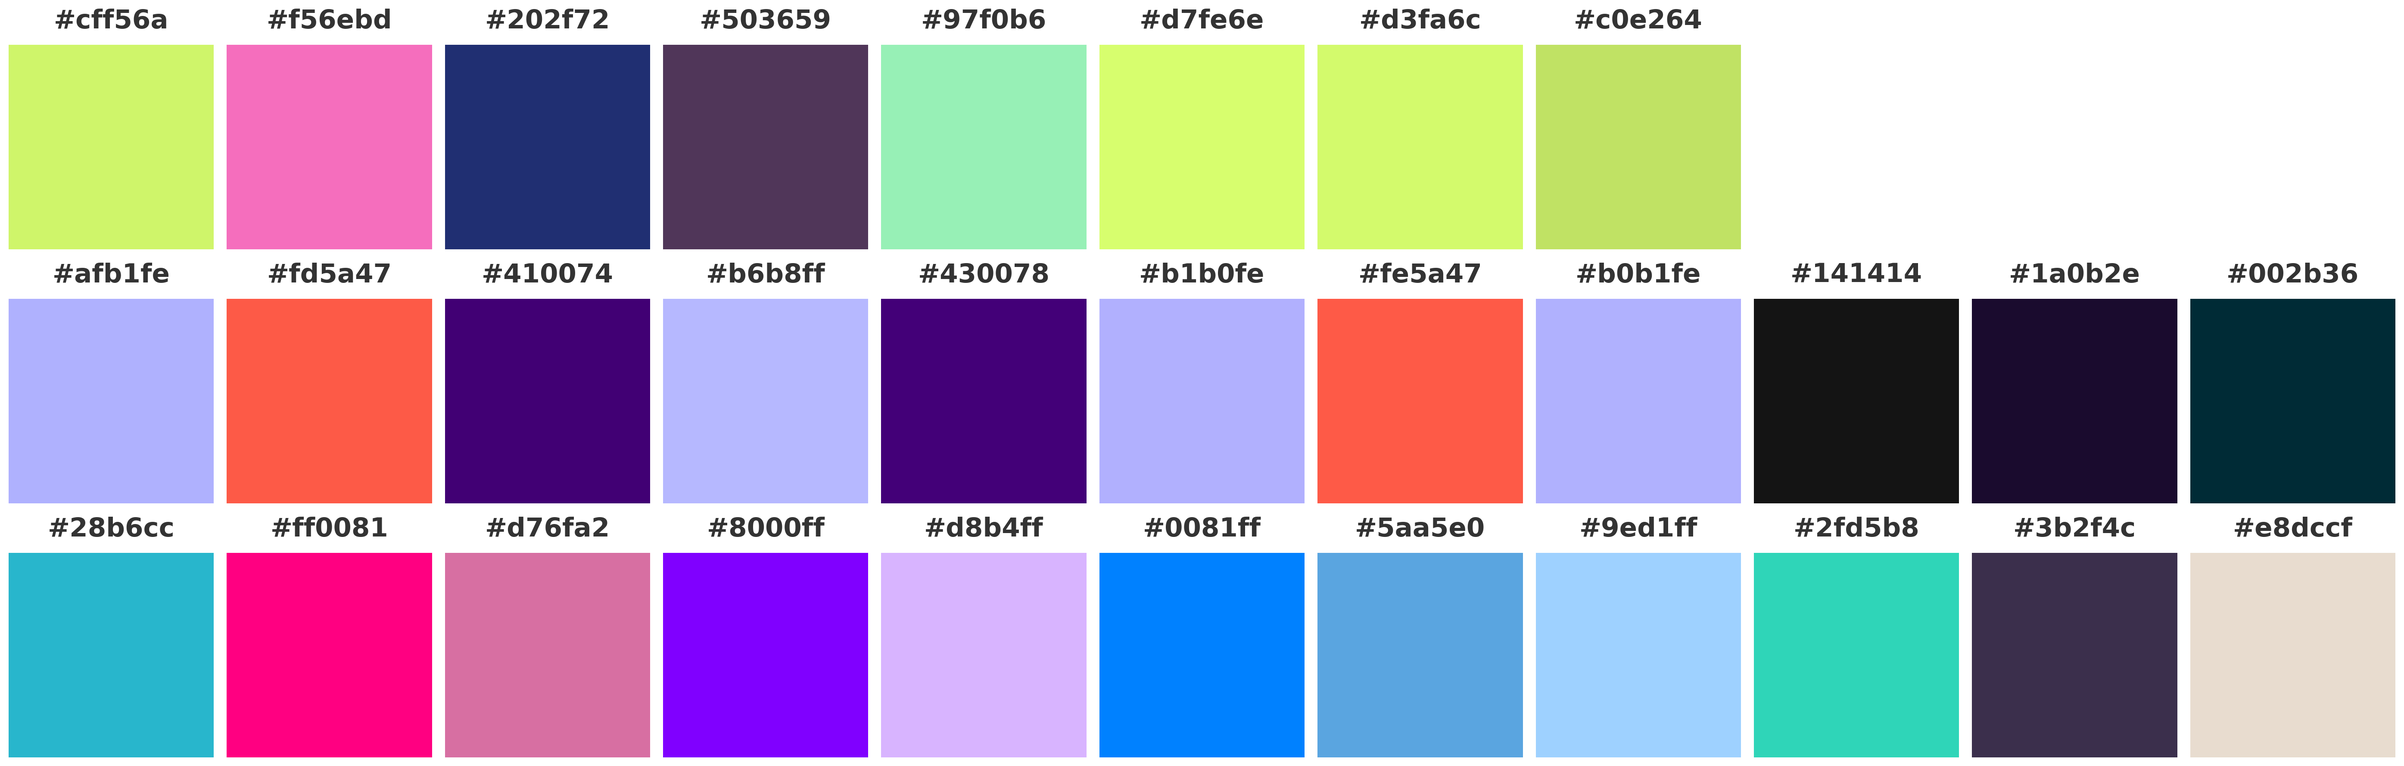
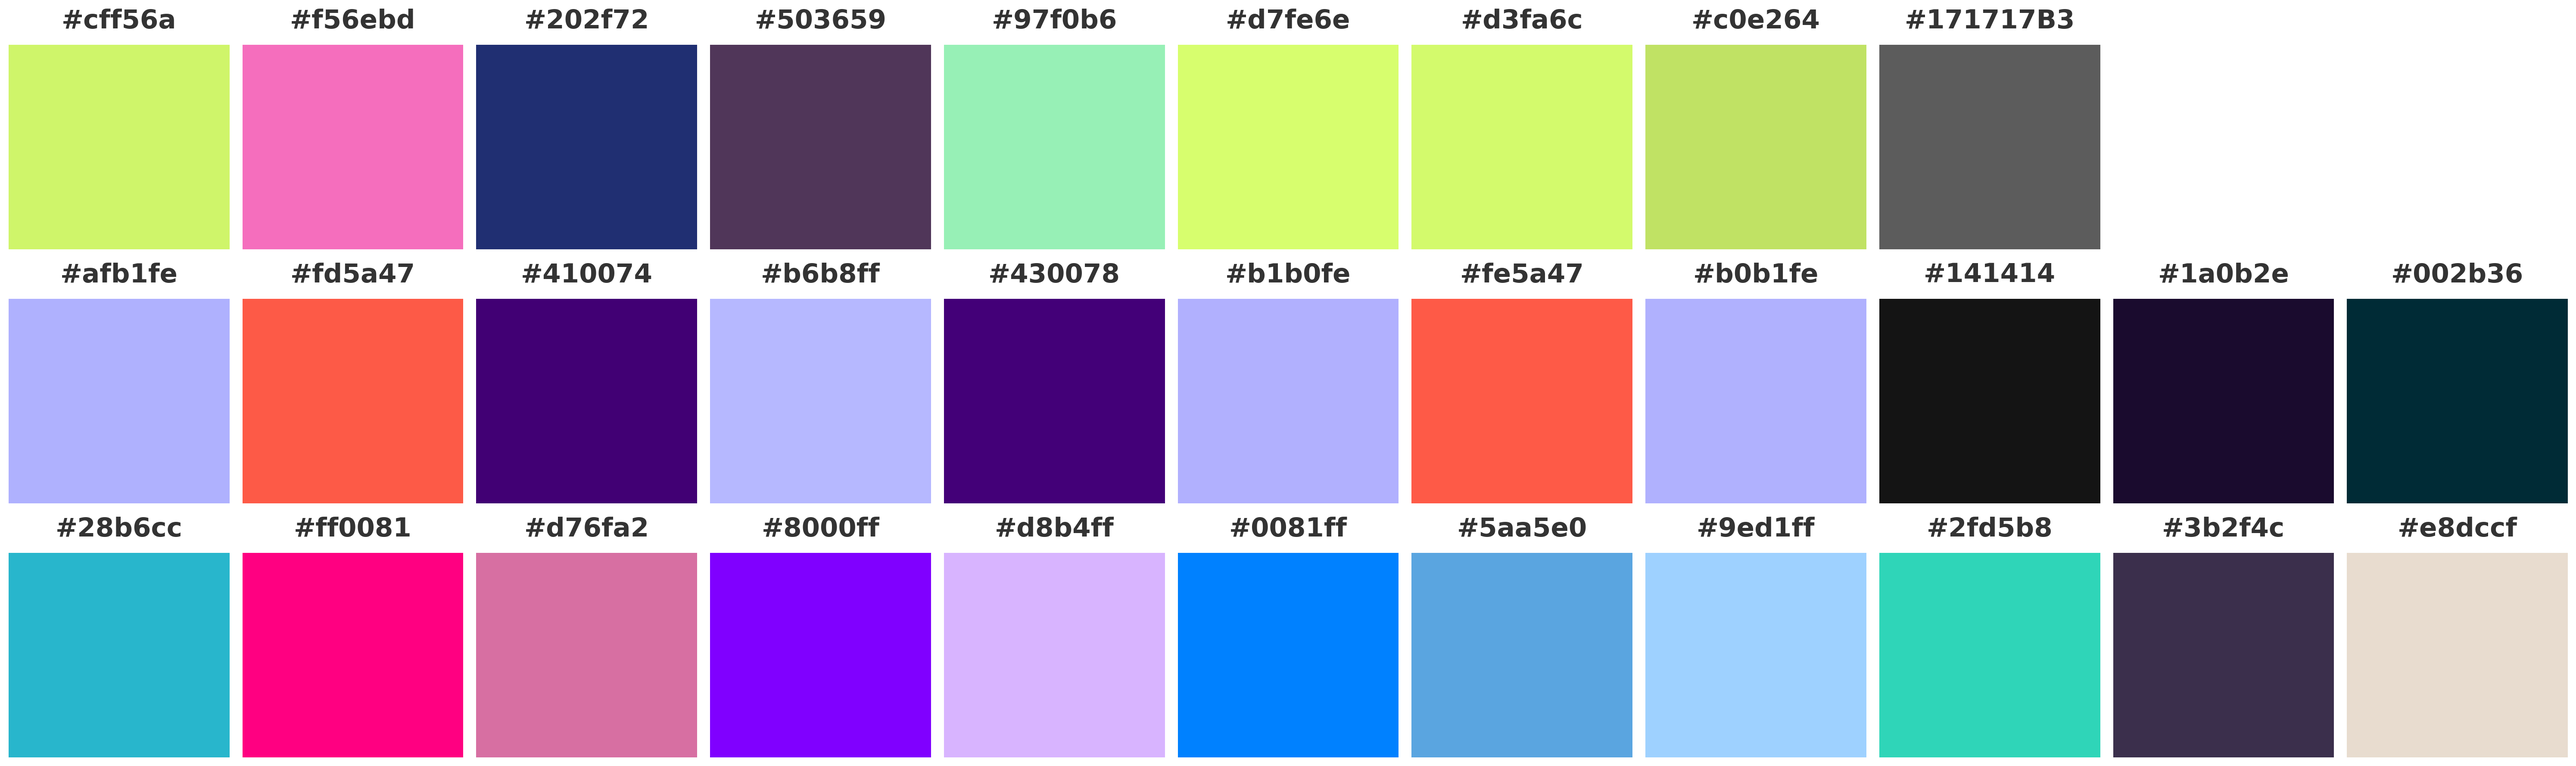
beige as main

diff --git a/basic_vanilla.html b/basic_vanilla.html
@@ -7,13 +7,13 @@
   <style>
     :root { 
       --win: 18rem; 
-      --bg-primary: #FFFAF2;
+      --bg-primary: #171717;
       --bg-secondary: #262626;
       --text-primary: #f5f5f5;
       --text-secondary: #a3a3a3;
-      --accent-from: #f56ebd; /* #c026d3 #fe5a47 */
-      --accent-to: #97f0b6; /* #4f46e5 */
-      --border-color: #b1b0fe; 
+      --accent-from: #c026d3;
+      --accent-to: #4f46e5;
+      --border-color: rgba(255, 255, 255, 0.1);
     }
     
     * {
@@ -42,18 +42,17 @@
       padding: 1rem;
       position: sticky;
       top: 0;
-      background-color: #fffdd0;
+      background-color: rgba(23, 23, 23, 0.7);
       backdrop-filter: blur(8px);
       z-index: 50;
       display: flex;
       align-items: center;
       justify-content: space-between;
-      border-bottom: 2px solid var(--border-color);
+      border-bottom: 1px solid var(--border-color);
     }
     
     .header h1 {
       font-weight: 600;
-      color: #c0e264; 
     }
     
     .reset-btn {
@@ -88,7 +87,7 @@
       box-shadow: 0 25px 50px -12px rgba(0, 0, 0, 0.25);
       border-radius: 1rem;
       border: 1px solid var(--border-color);
-      background-color: #c19acb; /* #b9aebc */
+      background-color: rgba(38, 38, 38, 0.9);
       backdrop-filter: blur(8px);
       transition: transform 0.2s;
       will-change: transform;

diff --git a/index_dark.html b/index_dark.html
@@ -7,13 +7,13 @@
   <style>
     :root { 
       --win: 18rem; 
-      --bg-primary: #FFFAF2;
+      --bg-primary: #171717;
       --bg-secondary: #262626;
       --text-primary: #f5f5f5;
       --text-secondary: #a3a3a3;
-      --accent-from: #f56ebd; /* #c026d3 #fe5a47 */
-      --accent-to: #97f0b6; /* #4f46e5 */
-      --border-color: #b1b0fe; 
+      --accent-from: #c026d3;
+      --accent-to: #4f46e5;
+      --border-color: rgba(255, 255, 255, 0.1);
     }
     
     * {
@@ -42,18 +42,17 @@
       padding: 1rem;
       position: sticky;
       top: 0;
-      background-color: #fffdd0;
+      background-color: 171717B3;
       backdrop-filter: blur(8px);
       z-index: 50;
       display: flex;
       align-items: center;
       justify-content: space-between;
-      border-bottom: 2px solid var(--border-color);
+      border-bottom: 1px solid var(--border-color);
     }
     
     .header h1 {
       font-weight: 600;
-      color: #c0e264; 
     }
     
     .reset-btn {
@@ -88,7 +87,7 @@
       box-shadow: 0 25px 50px -12px rgba(0, 0, 0, 0.25);
       border-radius: 1rem;
       border: 1px solid var(--border-color);
-      background-color: #c19acb; /* #b9aebc */
+      background-color: rgba(38, 38, 38, 0.9);
       backdrop-filter: blur(8px);
       transition: transform 0.2s;
       will-change: transform;
